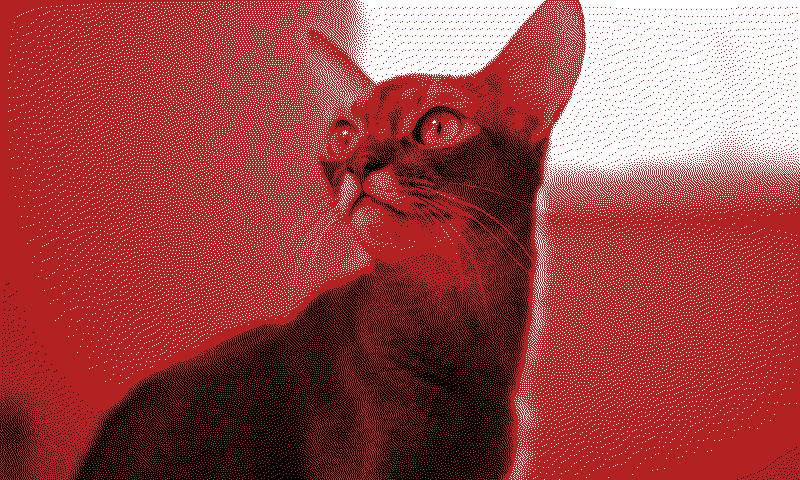
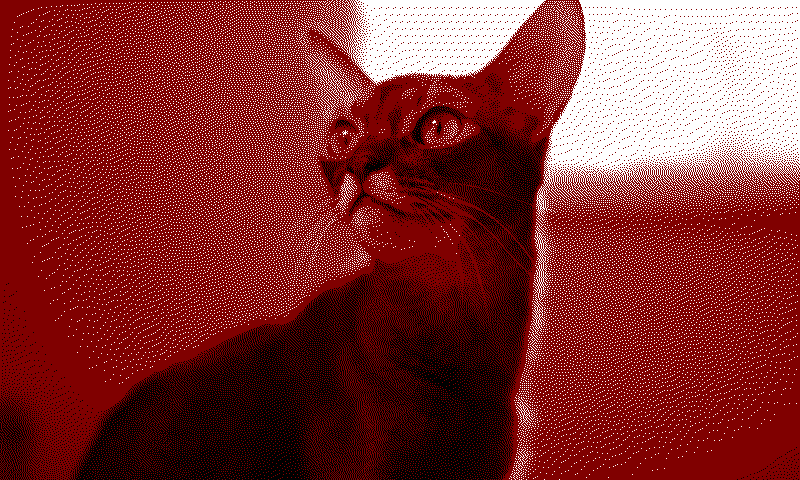
Adjust simulation red to maroon (128,0,0) to match physical display

diff --git a/simulate.py b/simulate.py
@@ -31,7 +31,7 @@ OUT_DIR.mkdir(parents=True, exist_ok=True)
 
 # The physical UC8179 ink renders red as a deep maroon rather than pure (255,0,0).
 # Remap red pixels before saving PNGs so screenshots are visually representative.
-_SIM_RED = (178, 34, 34)
+_SIM_RED = (128, 0, 0)
 
 
 def _remap_red(img: Image.Image) -> Image.Image:
